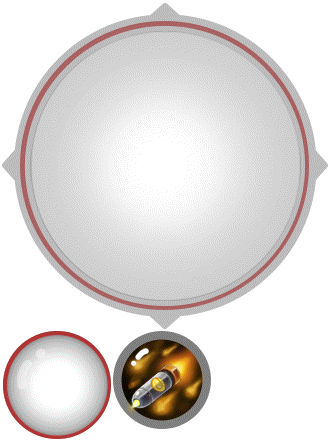
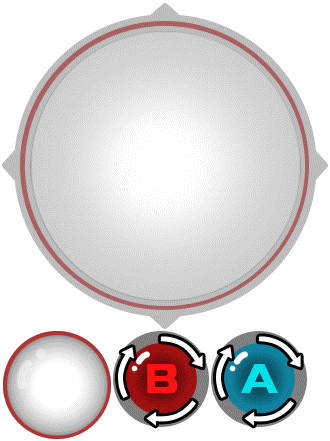
提交 子弹
提交 子弹

Changed region(s): [[0.3333, 0.737, 0.9394, 0.9728]]

diff --git a/src/scenes/gameScenes/ControllLayer.js b/src/scenes/gameScenes/ControllLayer.js
@@ -12,6 +12,7 @@ var ControllLayer = cc.Layer.extend({
     	this.initJoyStick();
     	this.bindJoyStickEvent();
     	this.initRifleShootBtn();
+        this.initRocketShootBtn();
     },
 
 	initJoyStick: function() {
@@ -43,17 +44,37 @@ var ControllLayer = cc.Layer.extend({
     	var button = new ccui.Button();
         button.setTouchEnabled(true);
         button.setPressedActionEnabled(true);
-        button.loadTextures("bombBtn.png", "bombBtn.png", "", ccui.Widget.PLIST_TEXTURE);
-        button.setPosition(cc.p(cc.winSize.width * 4 / 5, 100));
+        button.loadTextures("weaponABtn.png", "weaponABtn.png", "", ccui.Widget.PLIST_TEXTURE);
+        button.setPosition(cc.p(cc.winSize.width * 7 / 8, 100));
         button.addTouchEventListener(function(sender, type) {
         	if (type == ccui.Widget.TOUCH_BEGAN) {
-                cc.eventManager.dispatchCustomEvent(SC.CHRACTER_SET_WEAPON, {
-                    weaponName: SH.Weapon.Rifle
+                cc.eventManager.dispatchCustomEvent(SC.CHARACTER_SET_WEAPON, {
+                    weaponName: SH.Weapon.Characters.Rifle
                 });
             } else if (type == ccui.Widget.TOUCH_ENDED) {
-                cc.eventManager.dispatchCustomEvent(SC.CHRACTER_RESET_WEAPON);
+                cc.eventManager.dispatchCustomEvent(SC.CHARACTER_RESET_WEAPON);
             } else if (type == ccui.Widget.TOUCH_CANCELED) {
-                cc.eventManager.dispatchCustomEvent(SC.CHRACTER_RESET_WEAPON);
+                cc.eventManager.dispatchCustomEvent(SC.CHARACTER_RESET_WEAPON);
+            }
+        }, this);
+        this.addChild(button);
+    },
+
+    initRocketShootBtn: function() {
+        var button = new ccui.Button();
+        button.setTouchEnabled(true);
+        button.setPressedActionEnabled(true);
+        button.loadTextures("weaponBBtn.png", "weaponBBtn.png", "", ccui.Widget.PLIST_TEXTURE);
+        button.setPosition(cc.p(cc.winSize.width * 6 / 8, 100));
+        button.addTouchEventListener(function(sender, type) {
+            if (type == ccui.Widget.TOUCH_BEGAN) {
+                cc.eventManager.dispatchCustomEvent(SC.CHARACTER_SET_WEAPON, {
+                    weaponName: SH.Weapon.Characters.Rocket
+                });
+            } else if (type == ccui.Widget.TOUCH_ENDED) {
+                cc.eventManager.dispatchCustomEvent(SC.CHARACTER_RESET_WEAPON);
+            } else if (type == ccui.Widget.TOUCH_CANCELED) {
+                cc.eventManager.dispatchCustomEvent(SC.CHARACTER_RESET_WEAPON);
             }
         }, this);
         this.addChild(button);

diff --git a/src/models/base/Character.js b/src/models/base/Character.js
@@ -15,10 +15,10 @@ var Character = cc.Class.extend({
 	},
 
 	addListeners: function() {
-		cc.eventManager.addCustomListener(SC.CHRACTER_SET_WEAPON, _.bind(function(e) {
+		cc.eventManager.addCustomListener(SC.CHARACTER_SET_WEAPON, _.bind(function(e) {
             this._setWeapon(e.getUserData().weaponName);
         }, this));
-        cc.eventManager.addCustomListener(SC.CHRACTER_RESET_WEAPON, _.bind(function(e) {
+        cc.eventManager.addCustomListener(SC.CHARACTER_RESET_WEAPON, _.bind(function(e) {
             this._resetWeapon();
         }, this));
 	},
@@ -44,6 +44,10 @@ var Character = cc.Class.extend({
 		return this._viewObj.getBoundingBox();
 	},
 
+	getRotation: function() {
+		return this._viewObj.getRotation();
+	},
+
 	update: function() {
 		this._move();
 		this._changeDirection();
@@ -58,8 +62,8 @@ var Character = cc.Class.extend({
 		this._viewObj.y = Math.min(cc.winSize.height, Math.max(0, this._viewObj.y));
 	},
 
-	_setWeapon: function(weapon) {
-		this._weapon = Weapon.create(SH.Weapon.Characters.Rifle, this._parent);
+	_setWeapon: function(weaponName) {
+		this._weapon = Weapon.create(weaponName, this._parent);
 	},
 
 	_resetWeapon: function() {
@@ -67,7 +71,32 @@ var Character = cc.Class.extend({
 	},
 
 	_changeDirection: function() {
+		var vX = this._velocity.x;
+		var vY = this._velocity.y;
 
+		var rotation = this._viewObj.getRotation();
+
+		if (vX == 0) {
+			if (vY > 0) {
+				rotation = 0;
+			} else if (vY < 0) {
+				rotation = 180;
+			}
+		} else if (vY == 0) {
+			if (vX > 0) {
+				rotation = 90;
+			} else if (vX < 0) {
+				rotation = 270;
+			}
+		} else {
+			if (vX < 0) {
+				rotation = 180 + Math.atan(vY / vX) * 180 / Math.PI;
+			} else {
+				rotation = Math.atan(vY / vX) * 180 / Math.PI;
+			}
+		}
+
+		this._viewObj.setRotation(90 - rotation);
 	}
 });
 

diff --git a/src/models/bullets/BulletRocket.js b/src/models/bullets/BulletRocket.js
@@ -1,7 +1,7 @@
-var BulletRifle = Bullet.extend({
+var BulletRocket = Bullet.extend({
 	ctor: function() {
 		this._super();
-		this._viewObj = cc.Sprite.create(WeaponConfig.Rifle.bullets.res);
+		this._viewObj = cc.Sprite.create(WeaponConfig.Rocket.bullets.res);
 		this._velocity = {x: 0, y: 0};
 	},
 
@@ -29,18 +29,18 @@ var BulletRifle = Bullet.extend({
 	}
 });
 
-BulletRifle.create = function(parent, createOnly) {
+BulletRocket.create = function(parent, createOnly) {
 	var pool = cc.pool;
     createOnly = !_.isUndefined(createOnly) ? createOnly : false;
-    if (!createOnly && pool.hasObject(BulletRifle)) {
-        var bullet = pool.getFromPool(BulletRifle, parent);
+    if (!createOnly && pool.hasObject(BulletRocket)) {
+        var bullet = pool.getFromPool(BulletRocket, parent);
         return bullet;
     } else if(createOnly) {
-        var bullet = new BulletRifle(parent);
+        var bullet = new BulletRocket(parent);
         pool.putInPool(bullet);
     } else {
-        var bullet = new BulletRifle(parent);
+        var bullet = new BulletRocket(parent);
         cc.pool.putInPool(bullet);
-        return pool.getFromPool(BulletRifle, parent);
+        return pool.getFromPool(BulletRocket, parent);
     }
 }

diff --git a/src/models/base/Bullet.js b/src/models/base/Bullet.js
@@ -66,6 +66,8 @@ Bullet.create = function (parent, type) {
     switch (type) {
         case SH.Bullet.Characters.Rifle:
             return BulletRifle.create(parent);
+        case SH.Bullet.Characters.Rocket:
+            return BulletRocket.create(parent);
     }
 };
 
@@ -80,6 +82,9 @@ Bullet.preset = function (parent, type, data) {
     switch (type) {
         case SH.Bullet.Characters.Rifle:
             BulletRifle.preset(parent, data);
+            break;
+        case SH.Bullet.Characters.Rocket:
+            BulletRocket.preset(parent, data);
             break;
     }
 };

diff --git a/src/models/weapons/WeaponRocket.js b/src/models/weapons/WeaponRocket.js
@@ -1,0 +1,16 @@
+var WeaponRocket = Weapon.extend({
+	ctor: function(parent) {
+		this._super(parent);
+	},
+
+	update: function() {
+		this._super();
+		if (this._step % WeaponConfig.Rocket.shootStep == 0) {
+			this._shoot();
+		}
+	},
+
+	_shoot: function() {
+		Bullet.create(this._parent, SH.Bullet.Characters.Rocket);
+	}
+});

diff --git a/src/common/config/Event.js b/src/common/config/Event.js
@@ -1,4 +1,4 @@
 var SC = SH.CUSTOMEVENTS = {
-	CHRACTER_SET_WEAPON: "CHRACTER_SET_WEAPON",
-	CHRACTER_RESET_WEAPON: "CHRACTER_RESET_WEAPON"
+	CHARACTER_SET_WEAPON: "CHARACTER_SET_WEAPON",
+	CHARACTER_RESET_WEAPON: "CHARACTER_RESET_WEAPON"
 }

diff --git a/src/common/config/Global.js b/src/common/config/Global.js
@@ -6,12 +6,14 @@ SH.Character = {
 
 SH.Weapon = {
 	Characters: {
-		Rifle: "Rifle"
+		Rifle: "Rifle",
+		Rocket: "Rocket"
 	}
 }
 
 SH.Bullet = {
 	Characters: {
-		Rifle: "Rifle"
+		Rifle: "Rifle",
+		Rocket: "Rocket"
 	}
 }

diff --git a/src/models/base/Weapon.js b/src/models/base/Weapon.js
@@ -13,5 +13,7 @@ Weapon.create = function(type, parent) {
 	switch(type) {
 		case SH.Weapon.Characters.Rifle:
 			return new WeaponRifle(parent);
+		case SH.Weapon.Characters.Rocket:
+			return new WeaponRocket(parent);
 	}
 }

diff --git a/src/common/config/WeaponConfig.js b/src/common/config/WeaponConfig.js
@@ -1,0 +1,16 @@
+var WeaponConfig = {
+	Rifle: {
+		shootStep: 10,
+		bullets: {
+			res: "#W1.png",
+			speed: 15
+		}
+	},
+	Rocket: {
+		shootStep: 30,
+		bullets: {
+			res: "#W2.png",
+			speed: 5
+		}
+	}
+}

diff --git a/src/models/weapons/WeaponRifle.js b/src/models/weapons/WeaponRifle.js
@@ -5,7 +5,7 @@ var WeaponRifle = Weapon.extend({
 
 	update: function() {
 		this._super();
-		if (this._step % 10 == 0) {
+		if (this._step % WeaponConfig.Rifle.shootStep == 0) {
 			this._shoot();
 		}
 	},

diff --git a/src/common/config/CharacterConfig.js b/src/common/config/CharacterConfig.js
@@ -1,5 +1,5 @@
 var CharacterConfig = {
 	Ironman: {
-		speed: 10
+		speed: 5
 	}
 }
